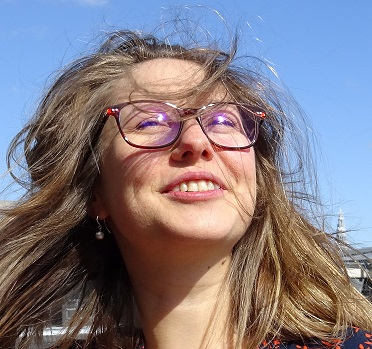
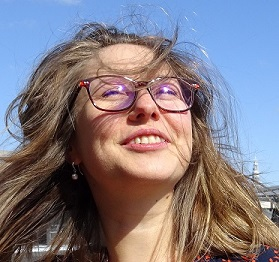
Resize profile pic

diff --git a/assets/css/main.scss b/assets/css/main.scss
@@ -94,7 +94,7 @@ main div {
 
 main div img {
   border-radius: 50%;
-  max-width: 20%;
+  max-width: 40%;
   height: auto;
 }
 
